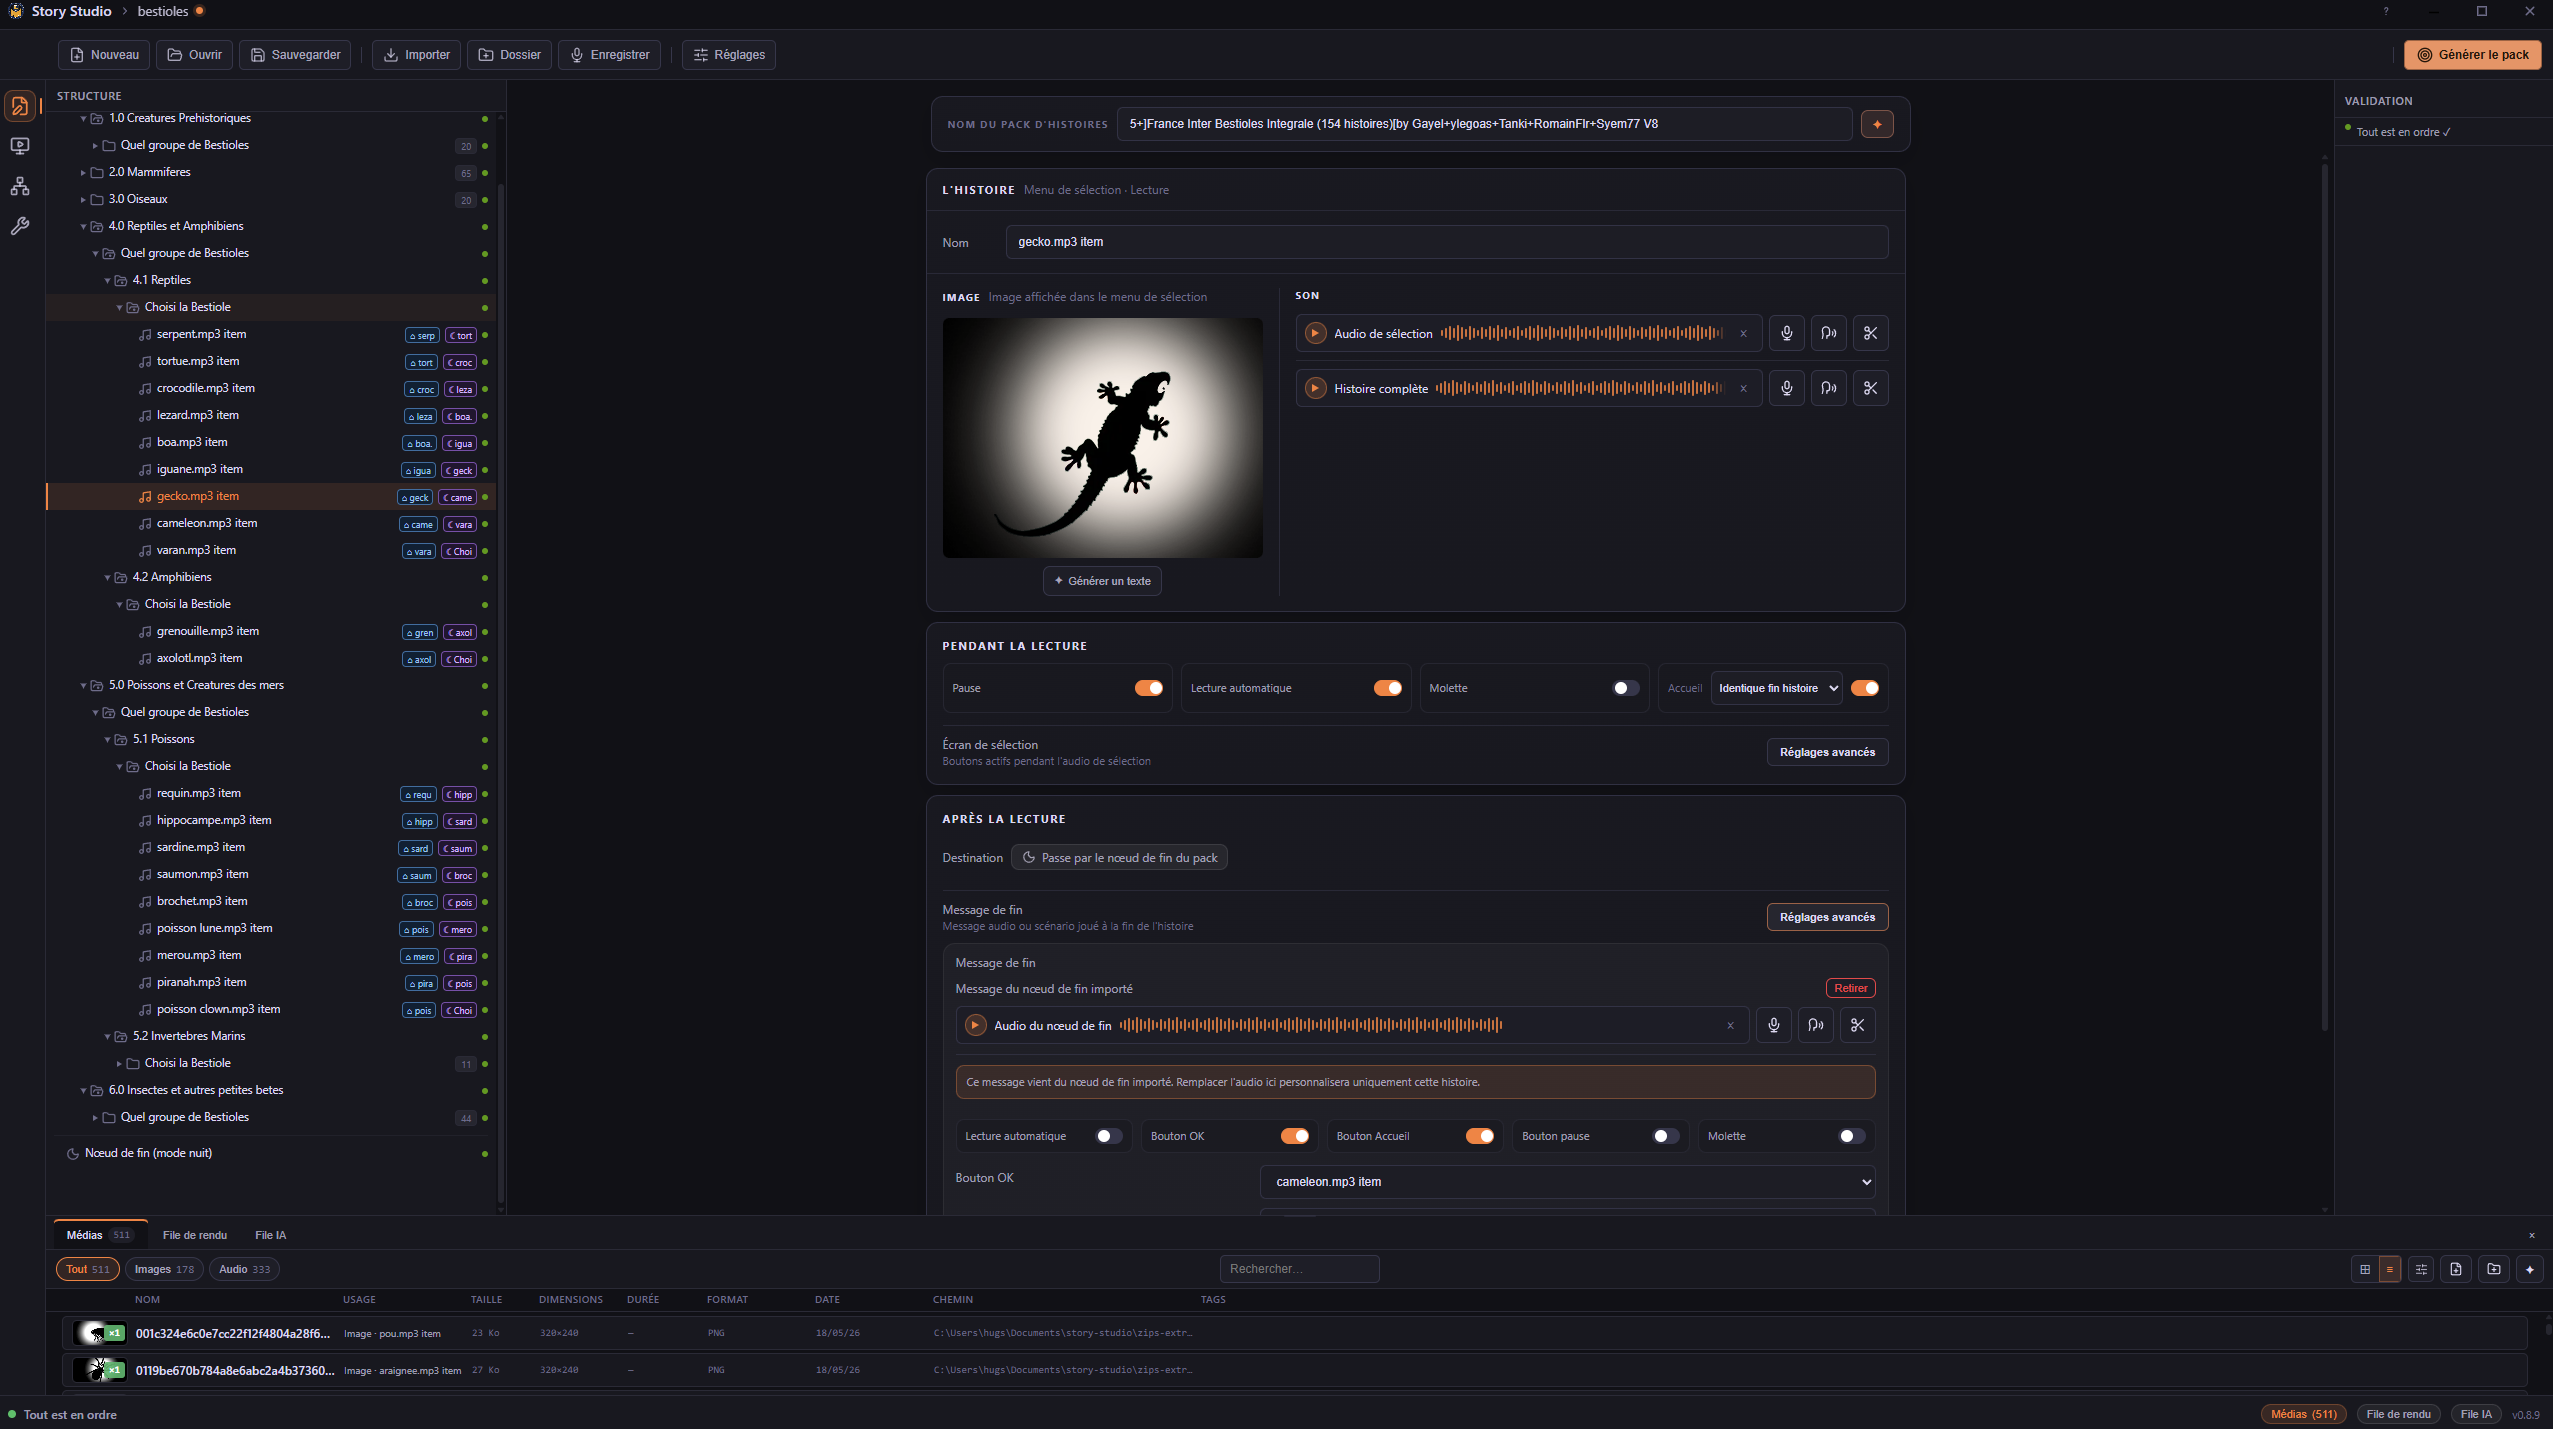
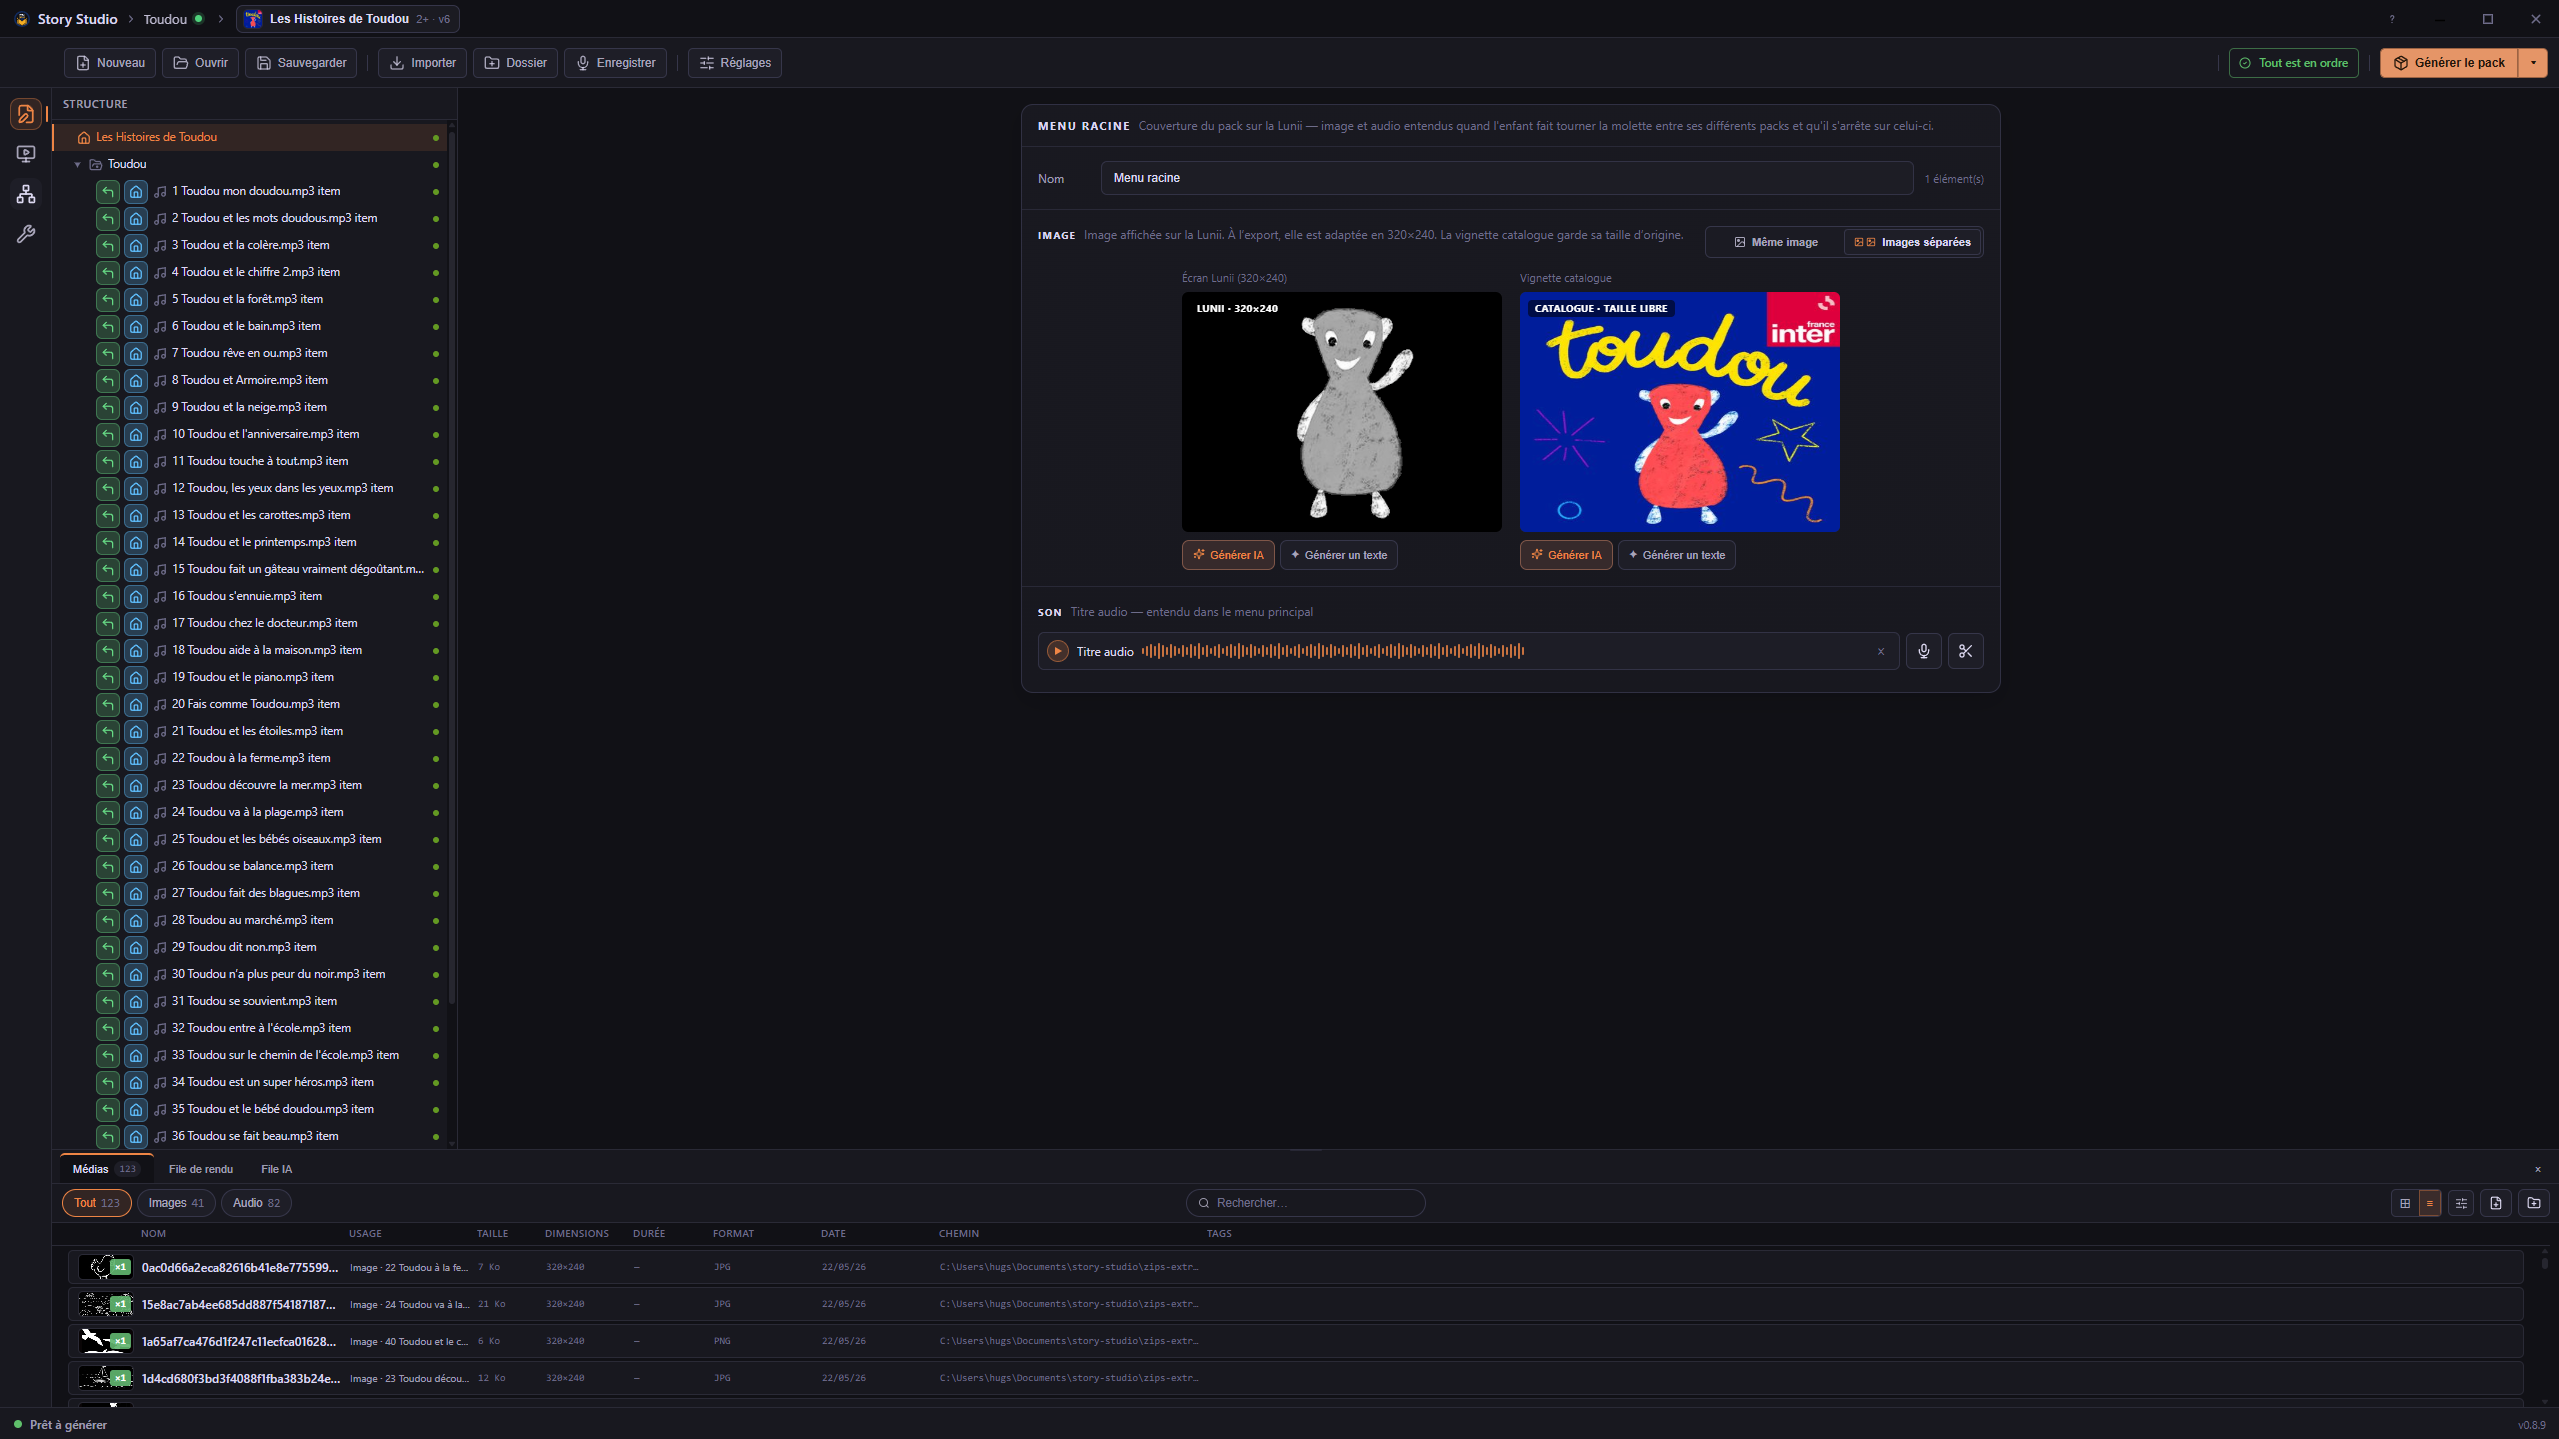
Refresh README screenshots

diff --git a/README.fr.md b/README.fr.md
@@ -12,7 +12,7 @@
   <a href=".github/workflows/ci.yml"><img alt="CI: Windows build" src="https://img.shields.io/badge/CI-Windows%20build-2ea44f.svg"></a>
   <a href="LICENSE"><img alt="License: MIT" src="https://img.shields.io/badge/license-MIT-blue.svg"></a>
   <a href="#configuration-requise"><img alt="Platform: Windows" src="https://img.shields.io/badge/platform-Windows-0078D4.svg"></a>
-  <a href="CHANGELOG.md"><img alt="Version 0.8.9" src="https://img.shields.io/badge/version-0.8.9-2F80ED.svg"></a>
+  <a href="CHANGELOG.md"><img alt="Version 0.9.0" src="https://img.shields.io/badge/version-0.9.0-2F80ED.svg"></a>
   <a href="#statut-beta"><img alt="Status: beta" src="https://img.shields.io/badge/status-beta-f59e0b.svg"></a>
   <a href="https://tauri.app/"><img alt="Tauri 2" src="https://img.shields.io/badge/Tauri-2-24C8DB.svg"></a>
   <a href="https://react.dev/"><img alt="React 19" src="https://img.shields.io/badge/React-19-61DAFB.svg"></a>
@@ -71,6 +71,10 @@ visibles et éditables dans un seul espace de travail.
 | Diagramme et simulateur | Explorateur de médias |
 |---|---|
 | ![Vue diagramme avec simulateur](docs/assets/screenshots/diagram-simulator-dark.png) | ![Explorateur de médias](docs/assets/screenshots/media-explorer-dark.png) |
+
+| Éditeur d'histoire | Métadonnées du pack |
+|---|---|
+| ![Réglages d'une histoire](docs/assets/screenshots/story-editor-dark.png) | ![Métadonnées du pack](docs/assets/screenshots/pack-metadata-dark.png) |
 
 | Éditeur audio | Préférences |
 |---|---|
@@ -262,7 +266,7 @@ la référence projet ou bibliothèque médias.
 
 Priorités à court terme :
 
-- Publier le premier installeur beta depuis le workflow de release `v0.8.9`.
+- Publier le premier installeur beta depuis le workflow de release `v0.9.0`.
 - Smoke-tester une installation fraîche sur Windows avant de partager la
   beta plus largement.
 - Continuer à améliorer la compatibilité import/export avec les packs

diff --git a/README.md b/README.md
@@ -12,7 +12,7 @@
   <a href=".github/workflows/ci.yml"><img alt="CI: Windows build" src="https://img.shields.io/badge/CI-Windows%20build-2ea44f.svg"></a>
   <a href="LICENSE"><img alt="License: MIT" src="https://img.shields.io/badge/license-MIT-blue.svg"></a>
   <a href="#requirements"><img alt="Platform: Windows" src="https://img.shields.io/badge/platform-Windows-0078D4.svg"></a>
-  <a href="CHANGELOG.md"><img alt="Version 0.8.9" src="https://img.shields.io/badge/version-0.8.9-2F80ED.svg"></a>
+  <a href="CHANGELOG.md"><img alt="Version 0.9.0" src="https://img.shields.io/badge/version-0.9.0-2F80ED.svg"></a>
   <a href="#beta-status"><img alt="Status: beta" src="https://img.shields.io/badge/status-beta-f59e0b.svg"></a>
   <a href="https://tauri.app/"><img alt="Tauri 2" src="https://img.shields.io/badge/Tauri-2-24C8DB.svg"></a>
   <a href="https://react.dev/"><img alt="React 19" src="https://img.shields.io/badge/React-19-61DAFB.svg"></a>
@@ -66,6 +66,10 @@ Studio keeps those pieces visible and editable in a single workspace.
 | Diagram and simulator | Media explorer |
 |---|---|
 | ![Diagram view with simulator](docs/assets/screenshots/diagram-simulator-dark.png) | ![Media explorer](docs/assets/screenshots/media-explorer-dark.png) |
+
+| Story editor | Pack metadata |
+|---|---|
+| ![Story editor controls](docs/assets/screenshots/story-editor-dark.png) | ![Pack metadata modal](docs/assets/screenshots/pack-metadata-dark.png) |
 
 | Audio editor | Settings |
 |---|---|
@@ -241,7 +245,7 @@ project or media library reference only.
 
 Near-term priorities:
 
-- Publish the first beta installer from the `v0.8.9` release workflow.
+- Publish the first beta installer from the `v0.9.0` release workflow.
 - Smoke-test a fresh install on Windows before sharing the beta more broadly.
 - Continue improving import/export compatibility with community packs.
 - Keep audio and media workflows approachable for non-technical creators.